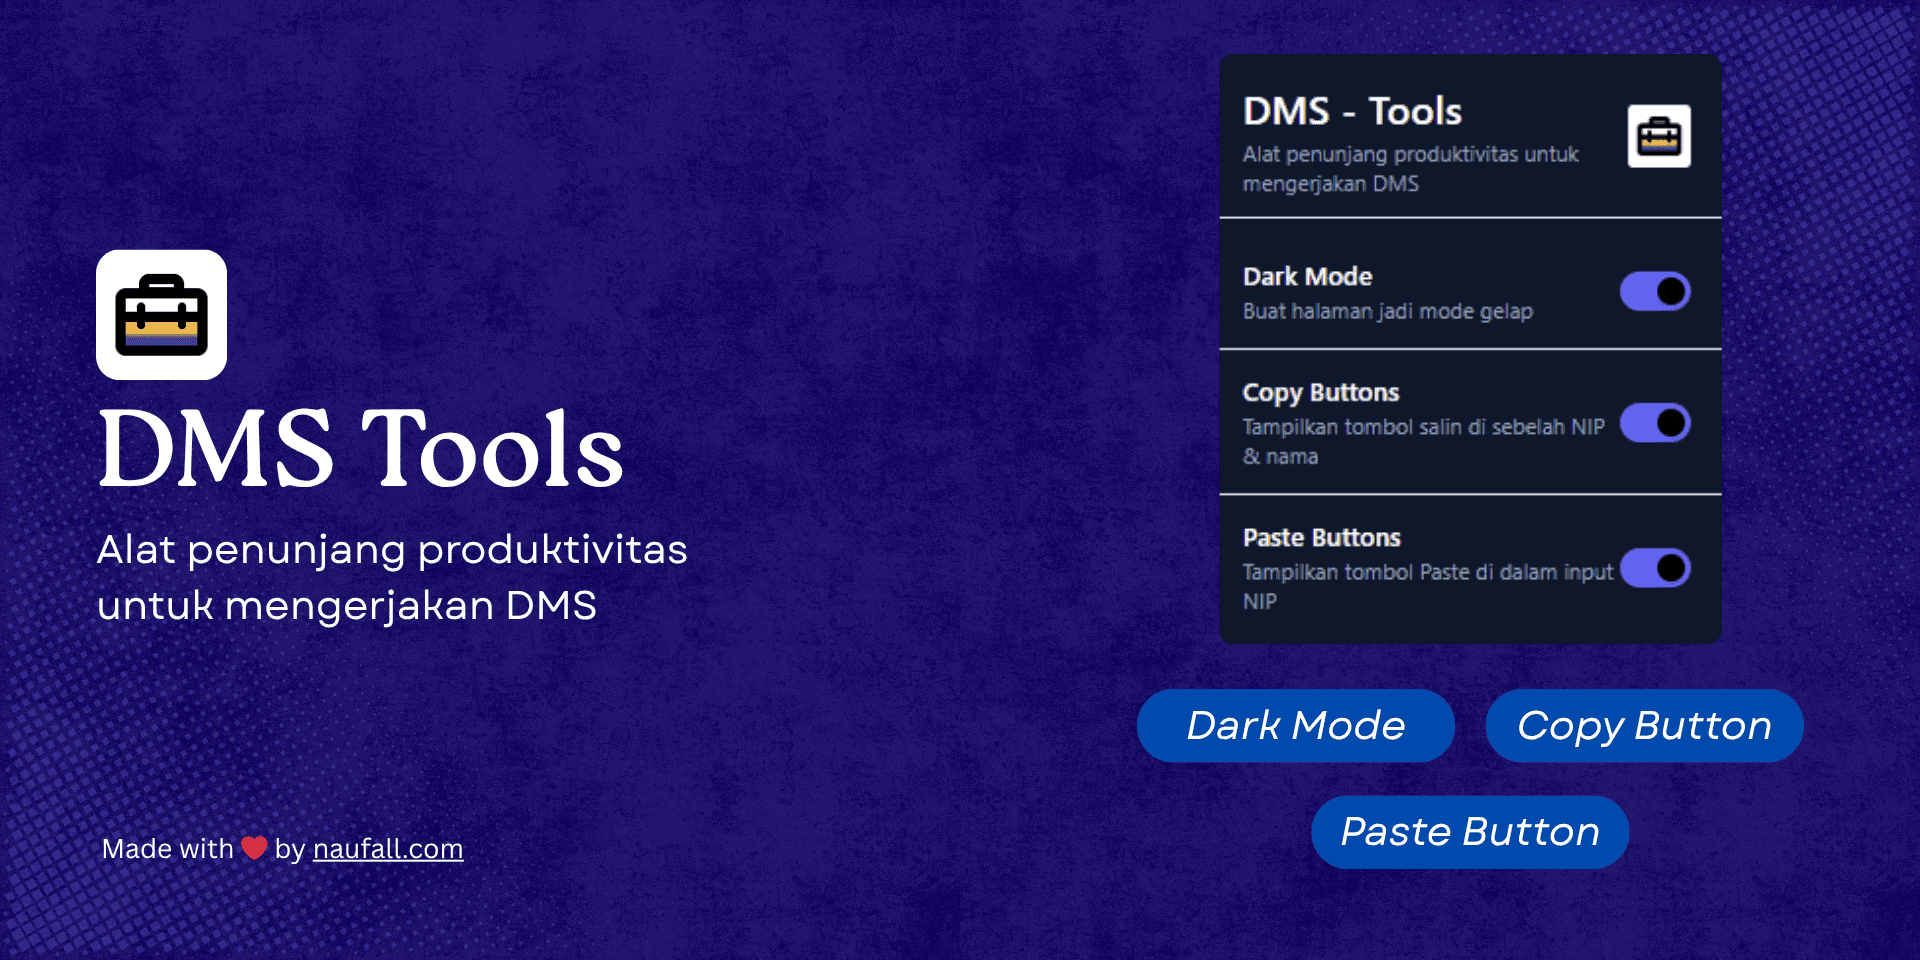
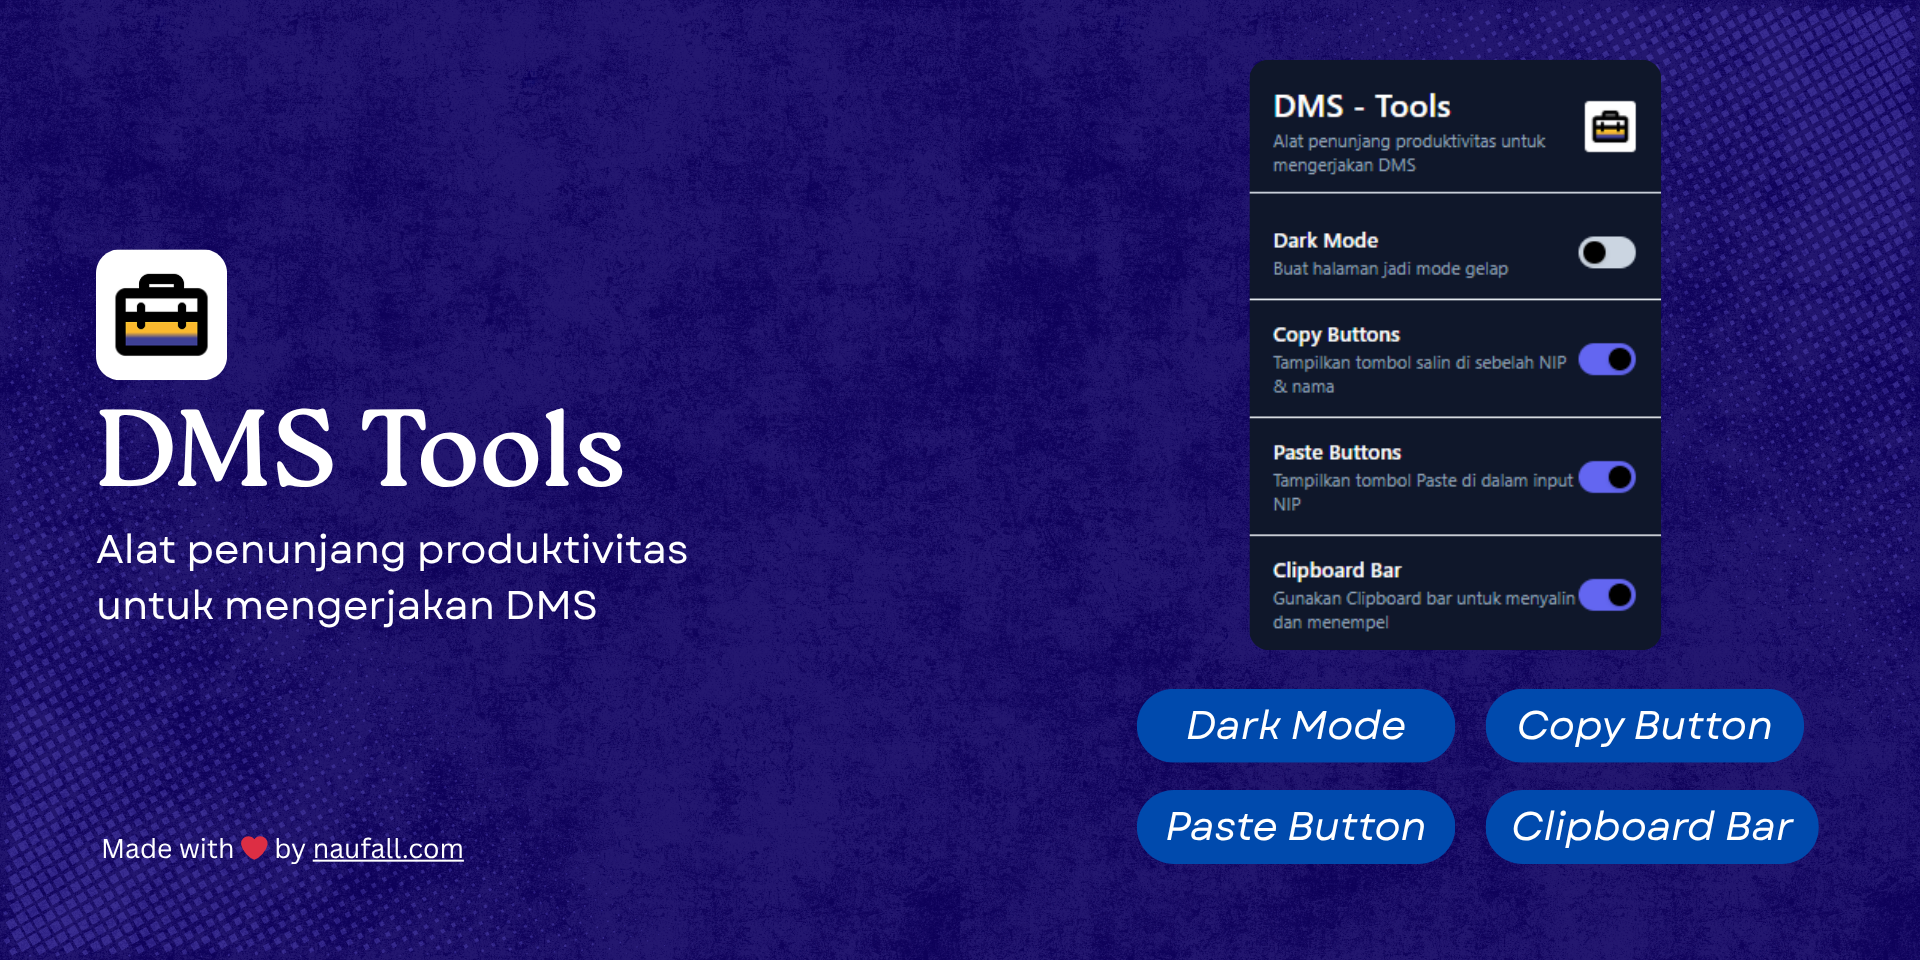
Add new hero images and update DmsPage component with collapsible sections for usage instructions

Changed region(s): [[0.625, 0.0312, 0.9062, 0.6875], [0.5938, 0.8125, 0.9688, 0.9062], [0.0625, 0.3125, 0.0938, 0.375]]

diff --git a/src/app/dms-tools/DmsPage.tsx b/src/app/dms-tools/DmsPage.tsx
@@ -1,11 +1,20 @@
 'use client';
 import Image from "next/image";
-import { PanelBottomClose } from "lucide-react";
+import { useState } from "react";
+import { ChevronDown, House, PanelBottomClose } from "lucide-react";
 import github from "../../../public/logo-github.svg";
 import chromeWebStore from "../../../public/logo-chrome-web-store.svg";
 import ImageCarousel from "../../../components/ImageCarousel";
 
 export default function DmsPage() {
+    const [openSection, setOpenSection] = useState<number | null>(0);
+
+    const toggleSection = (sectionIndex: number) => {
+      setOpenSection((prevSection) =>
+        prevSection === sectionIndex ? null : sectionIndex
+      );
+    };
+
     return (
     <div className="px-6 py-12 md:px-12 lg:px-32 max-w-5xl mx-auto">
       {/* Nama Ekstensi */}
@@ -21,7 +30,7 @@ export default function DmsPage() {
       <div className="mb-12">
         {/* Simpan gambar di /public/hero.png */}
         <ImageCarousel
-          images={["/dms/hero1.png", "/dms/hero2.png"]}
+          images={["/dms/hero-1.png", "/dms/hero-2.png"]}
           interval={3000}
           width={1000}
           height={500}
@@ -30,118 +39,173 @@ export default function DmsPage() {
         />
       </div>
 
-
-      {/* Cara Menggunakan */}
-      <h2 className="text-2xl font-semibold mt-10 mb-4">Cara Menggunakan Fitur Copy & Paste</h2>
-
-      <ol className="list-decimal ml-6 space-y-3 leading-relaxed mb-10">
-        <li>
-          Unduh dan pasang ekstensi di browser Anda dengan klik tombol{" "}
-          <strong>Unduh Ekstensi via Chrome Store</strong> di bawah ini.
-        </li>
-        <div className="flex flex-col md:flex-row gap-4 mb-12">
-          <a
-            href="https://chromewebstore.google.com/detail/mnhhdonbbkhhiiammnmdfjdjbjlhihmf?utm_source=item-share-cb"
-            target="_blank"
-            className="px-6 py-3 rounded-lg bg-gray-500 text-gray-100 font-medium shadow hover:bg-gray-600 transition flex items-center gap-2"
+      <div className="mt-10 space-y-4 mb-10">
+        <div className="border border-gray-200 rounded-xl overflow-hidden">
+          <button
+            type="button"
+            onClick={() => toggleSection(0)}
+            className="w-full px-5 py-4 flex items-center justify-between text-left bg-gray-700 hover:bg-gray-600 transition"
           >
-            <Image
-              src={chromeWebStore}
-              width={24}
-              height={24}
-              alt="logo-chrome-web-store"
-              className="hover:opacity-80"
+            <h2 className="text-2xl font-semibold">Cara Pasang DMS - Tools</h2>
+            <ChevronDown
+              className={`w-5 h-5 transition-transform ${openSection === 0 ? "rotate-180" : ""}`}
             />
-            <span>Unduh Ekstensi via Chrome Store</span>
-          </a>
+          </button>
+          {openSection === 0 && (
+            <div className="px-5 pb-5 bg-gray-700 text-gray-100">
+              <ol className="list-decimal ml-6 space-y-3 leading-relaxed">
+                <li>
+                  Unduh dan pasang ekstensi di browser Anda dengan klik tombol{" "}
+                  <strong>Unduh Ekstensi via Chrome Store</strong> di bawah ini.
+                </li>
+                <div className="flex flex-col md:flex-row gap-4 mb-6">
+                  <a
+                    href="https://chromewebstore.google.com/detail/mnhhdonbbkhhiiammnmdfjdjbjlhihmf?utm_source=item-share-cb"
+                    target="_blank"
+                    className="px-6 py-3 rounded-lg bg-gray-500 text-gray-100 font-medium shadow hover:bg-gray-600 transition flex items-center gap-2"
+                  >
+                    <Image
+                      src={chromeWebStore}
+                      width={24}
+                      height={24}
+                      alt="logo-chrome-web-store"
+                      className="hover:opacity-80"
+                    />
+                    <span>Unduh Ekstensi via Chrome Store</span>
+                  </a>
+                </div>
+                <li>
+                  Sematkan ekstensi <strong>DMS Tools</strong> di toolbar browser Anda.
+                  <Image
+                    src="/dms/step2.png"
+                    width={300}
+                    height={100}
+                    alt="Cara menyematkan ekstensi di toolbar"
+                    className="mt-2 rounded-md shadow-md"
+                  />
+                </li>
+                <li>
+                  Ekstensi siap dipakai! Aktifkan Fitur yang Anda Butuhkan di Halaman
+                  DMS Anda.
+                  <Image
+                    src="/dms/step3.png"
+                    width={400}
+                    height={150}
+                    alt="Tampilan DMS Tools di Halaman DMS"
+                    className="mt-2 rounded-md shadow-md"
+                  />
+                </li>
+              </ol>
+            </div>
+          )}
         </div>
-        <li>
-          Sematkan ekstensi <strong>DMS Tools</strong> di toolbar browser Anda.
-          <Image
-            src="/dms/step2.png"
-            width={300}
-            height={100}
-            alt="Cara menyematkan ekstensi di toolbar"
-            className="mt-2 rounded-md shadow-md"
-          />
-        </li>
-        <li>
-          Ekstensi siap dipakai! Aktifkan Fitur yang Anda Butuhkan di Halaman
-          DMS Anda.
-          <Image
-            src="/dms/step3.png"
-            width={400}
-            height={150}
-            alt="Tampilan DMS Tools di Halaman DMS"
-            className="mt-2 rounded-md shadow-md"
-          />
-        </li>
-        <li>
-          Untuk Hasil yang Optimal, silahkan Refresh terlebih dahulu halaman DMS
-          Anda setelah mengaktifkan ekstensi.
-          <Image
-            src="/dms/step4-1.png"
-            width={400}
-            height={150}
-            alt="Tampilan DMS Tools di Halaman DMS"
-            className="mt-2 rounded-md shadow-md"
-          />
-          <Image
-            src="/dms/step4-2.png"
-            width={400}
-            height={150}
-            alt="Tampilan DMS Tools di Halaman DMS"
-            className="mt-2 rounded-md shadow-md"
-          />
-        </li>
-      </ol>
 
-        {/* Cara Menggunakan */}
-      <h2 className="text-2xl font-semibold mt-10 mb-4">Cara Menggunakan Clipboard Bar</h2>
-      <ol className="list-decimal ml-6 space-y-3 leading-relaxed mb-10">
-        <li>
-          Aktifkan fitur <strong>Clipboard Bar</strong> di halaman ekstensi.
-          <Image
-            src="/dms/clipboard-bar.png"
-            width={400}
-            height={150}
-            alt="Tampilan Clipboard Bar di Halaman DMS"
-            className="mt-2 rounded-md shadow-md"
-          />
-        </li>
-        <li>
-          Setelah diaktifkan, Anda akan melihat Clipboard Bar (sebuah bar kecil) muncul di bagian bawah halaman DMS Anda.
-          <Image
-            src="/dms/clipboard-bar-2.png"
-            width={400}
-            height={150}
-            alt="Tampilan Clipboard Bar di Halaman DMS"
-            className="mt-2 rounded-md shadow-md"
-          />
-        </li>
-        <li>
-          Klik tombol <PanelBottomClose className="w-6 h-6" />
-          di sebelah NIP, Nama, dan Nama Dokumen untuk menyalin informasi tersebut ke clipboard Anda.
-          Jangan Lupa lengkapi Nama Instansi dan Status Verifikasi
-          <Image
-            src="/dms/clipboard-bar-3.png"
-            width={400}
-            height={150}
-            alt="Tampilan Clipboard Bar di Halaman DMS"
-            className="mt-2 rounded-md shadow-md"
-          />
-        </li>
-        <li>
-          Klik Copy All untuk menyalin semua informasi (NIP, Nama, Nama Dokumen, Nama Instansi, Status Verifikasi) sekaligus ke clipboard Anda.
-          <Image
-            src="/dms/clipboard-bar-4.png"
-            width={400}
-            height={150}
-            alt="Tampilan Clipboard Bar di Halaman DMS"
-            className="mt-2 rounded-md shadow-md"
-          />
-        </li>
-      </ol>
+        <div className="border border-gray-200 rounded-xl overflow-hidden">
+          <button
+            type="button"
+            onClick={() => toggleSection(1)}
+            className="w-full px-5 py-4 flex items-center justify-between text-left bg-gray-700 hover:bg-gray-600 transition"
+          >
+            <h2 className="text-2xl font-semibold">Cara Menggunakan Fitur Copy & Paste</h2>
+            <ChevronDown
+              className={`w-5 h-5 transition-transform ${openSection === 1 ? "rotate-180" : ""}`}
+            />
+          </button>
+          {openSection === 1 && (
+            <div className="px-5 pb-5 bg-gray-700 text-gray-100">
+              <ol className="list-decimal ml-6 space-y-3 leading-relaxed">
+                <li>
+                  Aktifkan Fitur yang Anda Butuhkan di Halaman DMS Anda.
+                  <Image
+                    src="/dms/step3.png"
+                    width={400}
+                    height={150}
+                    alt="Tampilan DMS Tools di Halaman DMS"
+                    className="mt-2 rounded-md shadow-md"
+                  />
+                </li>
+                <li>
+                  Untuk Hasil yang Optimal, silahkan Refresh terlebih dahulu halaman DMS
+                  Anda setelah mengaktifkan ekstensi.
+                  <Image
+                    src="/dms/step4-1.png"
+                    width={400}
+                    height={150}
+                    alt="Tampilan DMS Tools di Halaman DMS"
+                    className="mt-2 rounded-md shadow-md"
+                  />
+                  <Image
+                    src="/dms/step4-2.png"
+                    width={400}
+                    height={150}
+                    alt="Tampilan DMS Tools di Halaman DMS"
+                    className="mt-2 rounded-md shadow-md"
+                  />
+                </li>
+              </ol>
+            </div>
+          )}
+        </div>
+
+        <div className="border border-gray-200 rounded-xl overflow-hidden">
+          <button
+            type="button"
+            onClick={() => toggleSection(2)}
+            className="w-full px-5 py-4 flex items-center justify-between text-left bg-gray-700 hover:bg-gray-600 transition"
+          >
+            <h2 className="text-2xl font-semibold">Cara Menggunakan Clipboard Bar</h2>
+            <ChevronDown
+              className={`w-5 h-5 transition-transform ${openSection === 2 ? "rotate-180" : ""}`}
+            />
+          </button>
+          {openSection === 2 && (
+            <div className="px-5 pb-5 bg-gray-700 text-gray-100">
+              <ol className="list-decimal ml-6 space-y-3 leading-relaxed">
+                <li>
+                  Aktifkan fitur <strong>Clipboard Bar</strong> di halaman ekstensi.
+                  <Image
+                    src="/dms/clipboard-bar.png"
+                    width={300}
+                    height={150}
+                    alt="Tampilan Clipboard Bar di Halaman DMS"
+                    className="mt-2 rounded-md shadow-md"
+                  />
+                </li>
+                <li>
+                  Setelah diaktifkan, Anda akan melihat Clipboard Bar (sebuah bar kecil) muncul di bagian bawah halaman DMS Anda.
+                  <Image
+                    src="/dms/clipboard-bar-2.png"
+                    width={400}
+                    height={150}
+                    alt="Tampilan Clipboard Bar di Halaman DMS"
+                    className="mt-2 rounded-md shadow-md"
+                  />
+                </li>
+                <li>
+                  Klik tombol <PanelBottomClose className="w-6 h-6 inline-block align-middle" /> di sebelah NIP, Nama, dan Nama Dokumen untuk menyalin informasi tersebut ke clipboard Anda. Jangan Lupa lengkapi Nama Instansi dan Status Verifikasi.
+                  <Image
+                    src="/dms/clipboard-bar-3.png"
+                    width={400}
+                    height={150}
+                    alt="Tampilan Clipboard Bar di Halaman DMS"
+                    className="mt-2 rounded-md shadow-md"
+                  />
+                </li>
+                <li>
+                  Klik Copy All untuk menyalin semua informasi (NIP, Nama, Nama Dokumen, Nama Instansi, Status Verifikasi) sekaligus ke clipboard Anda.
+                  <Image
+                    src="/dms/clipboard-bar-4.png"
+                    width={400}
+                    height={150}
+                    alt="Tampilan Clipboard Bar di Halaman DMS"
+                    className="mt-2 rounded-md shadow-md"
+                  />
+                </li>
+              </ol>
+            </div>
+          )}
+        </div>
+      </div>
 
       {/* Catatan untuk Pengguna Chrome / Browser Chromium */}
       <div className="bg-blue-50 border border-blue-200 text-blue-700 p-4 rounded-lg mb-10">
@@ -173,7 +237,7 @@ export default function DmsPage() {
           <span>Lihat di Chrome Web Store</span>
         </a>
       </div>
-      {/* Cara Menggunakan */}
+
       <h2 className="text-2xl font-semibold mt-10 mb-4">
         Lihat Ekstensi ini di Github
       </h2>
@@ -192,6 +256,20 @@ export default function DmsPage() {
             className="hover:opacity-80"
           />
           <span>Lihat di GitHub</span>
+        </a>
+      </div>
+
+       <h2 className="text-2xl font-semibold mt-10 mb-4">
+        Lihat Projek Saya Lainnya 
+      </h2>
+
+      <div className="flex flex-col md:flex-row gap-4 mb-12">
+        <a
+          href="/"
+          className="px-6 py-3 rounded-lg bg-gray-100 text-gray-700 font-medium shadow hover:bg-gray-200 transition flex items-center gap-2"
+        >
+          <House className="w-5 h-5" />
+          <span>Kembali ke Beranda</span>
         </a>
       </div>
 

diff --git a/src/app/dms-tools/page.tsx b/src/app/dms-tools/page.tsx
@@ -4,16 +4,16 @@ export async function generateMetadata() {
   return {
     title: "DMS Tools - Ekstensi Browser",
     description:
-      "Ekstensi sederhana untuk menunjang aktivitas DMS Anda dengan menambahkan fitur Copy-Paste NIP serta mode tampilan gelap.",
+      "Ekstensi sederhana untuk menambahkan fitur Copy-Paste NIP, mode tampilan gelap, dan Clipboard Bar.",
     openGraph: {
       title: "DMS Tools - Ekstensi Browser",
       description:
-        "Ekstensi sederhana untuk menunjang aktivitas DMS Anda dengan menambahkan fitur Copy-Paste NIP serta mode tampilan gelap.",
+        "Ekstensi sederhana untuk menambahkan fitur Copy-Paste NIP, mode tampilan gelap, dan Clipboard Bar.",
     },
     twitter: {
       title: "DMS Tools - Ekstensi Browser",
       description:
-        "Ekstensi sederhana untuk menunjang aktivitas DMS Anda dengan menambahkan fitur Copy-Paste NIP serta mode tampilan gelap.",
+        "Ekstensi sederhana untuk menambahkan fitur Copy-Paste NIP, mode tampilan gelap, dan Clipboard Bar.",
     },
   };
 }

diff --git a/src/app/rekap-kinerja/page.tsx b/src/app/rekap-kinerja/page.tsx
@@ -195,6 +195,18 @@ export default function HomePage() {
         </a>
       </div>
 
+      <h2 className="text-2xl font-semibold mt-10 mb-4">
+        Lihat Projek Saya Lainnya 
+      </h2>
+
+      <div className="flex flex-col md:flex-row gap-4 mb-12">
+        <a
+          href="/"
+          className="px-6 py-3 rounded-lg bg-gray-100 text-gray-700 font-medium shadow hover:bg-gray-200 transition flex items-center gap-2"
+        >
+          <span>Kembali ke Beranda</span>
+        </a>
+      </div>
       {/* Kontak */}
       <h2 className="text-2xl font-semibold mt-10 mb-4">Kontak</h2>
 
